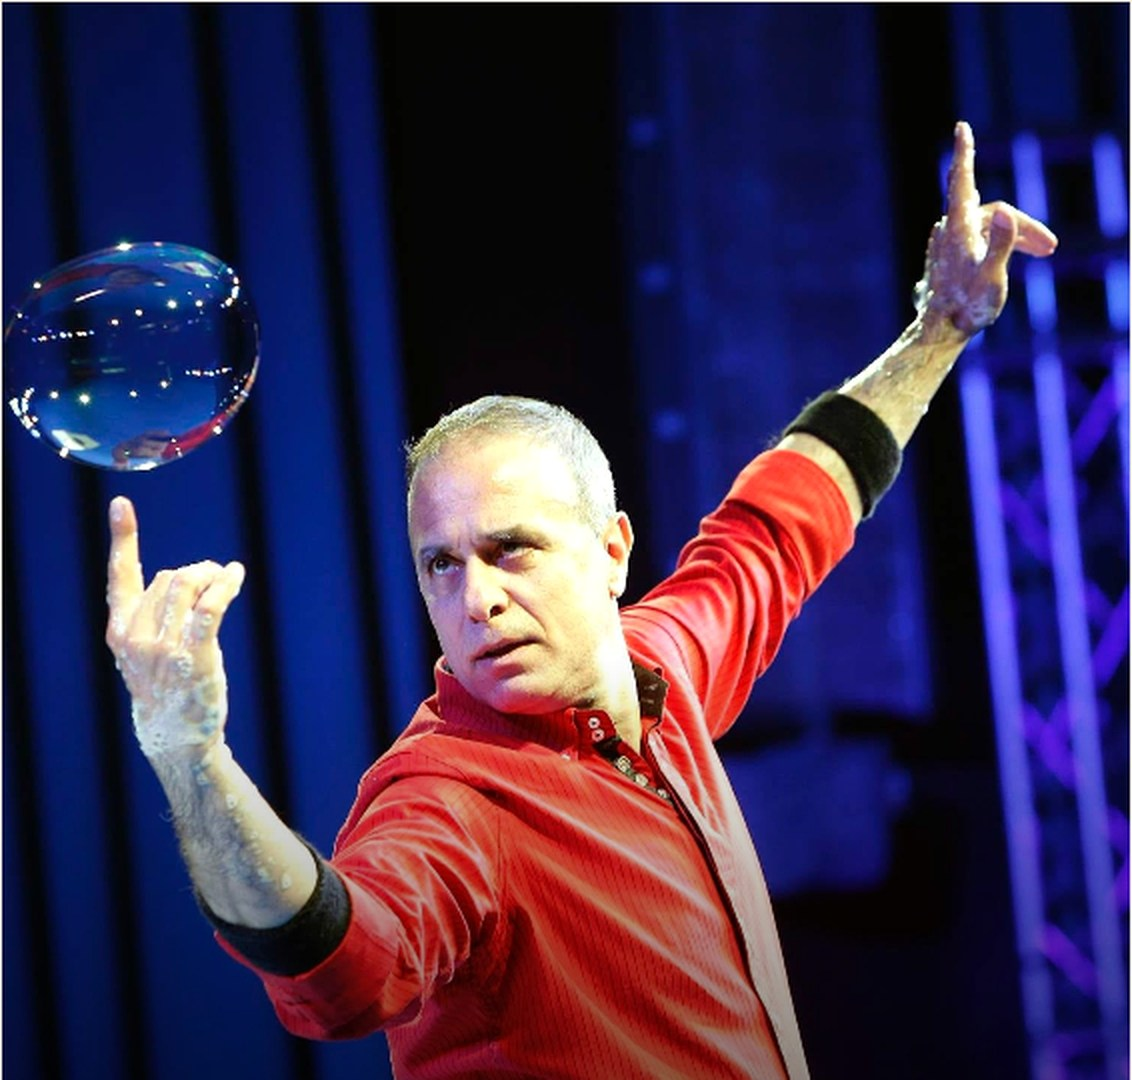
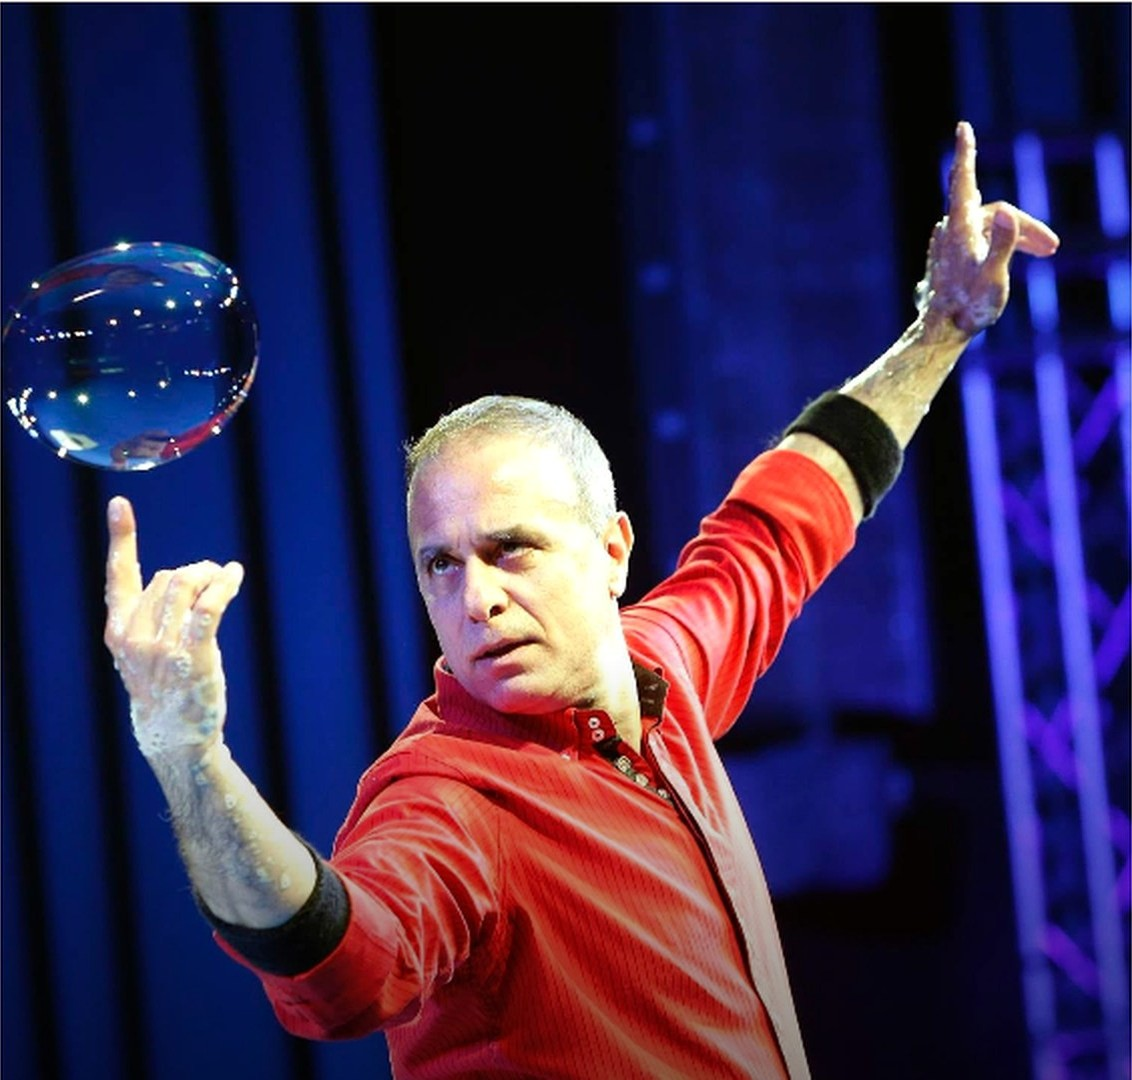
Add files via upload

diff --git a/index.html b/index.html
@@ -42,8 +42,8 @@
 
 .memory{background:var(--dark);color:#fff}
 .memory-grid{display:grid;grid-template-columns:minmax(320px,.88fr) minmax(0,1.12fr);gap:42px;align-items:center}
-.memory-visual{margin:0;position:relative;overflow:hidden;background:#111}
-.memory-visual img{aspect-ratio:1.05/1;object-fit:cover;object-position:center}
+.memory-visual{margin:0;position:relative;overflow:hidden;background:#111;border:0;outline:0}
+.memory-visual img{aspect-ratio:1.05/1;object-fit:cover;object-position:center;border:0;outline:0}
 .memory-copy .eyebrow{color:#c7a46e}
 .memory-copy h2{font-family:"Cormorant Garamond",serif;font-size:clamp(42px,5.5vw,72px);line-height:.98;margin:0 0 18px;font-weight:500}
 .memory-copy .lead{font-family:"Cormorant Garamond",serif;font-size:clamp(27px,3vw,38px);line-height:1.08;margin:0 0 16px}
@@ -90,7 +90,7 @@ Paolo la prepara dal vivo come un bartender: composizioni su bicchieri, bolle di
 <section id="momento" class="section memory">
   <div class="wrap memory-grid">
     <figure class="memory-visual reveal">
-      <img src="bubble-experience-live.jpg?v=16" alt="Paolo Musetti durante una performance televisiva con le bolle">
+      <img src="bubble-experience-live.jpg?v=17" alt="Paolo Musetti durante una performance televisiva con le bolle">
     </figure>
     <div class="memory-copy reveal">
       <p class="eyebrow">The Bubble Experience</p>
